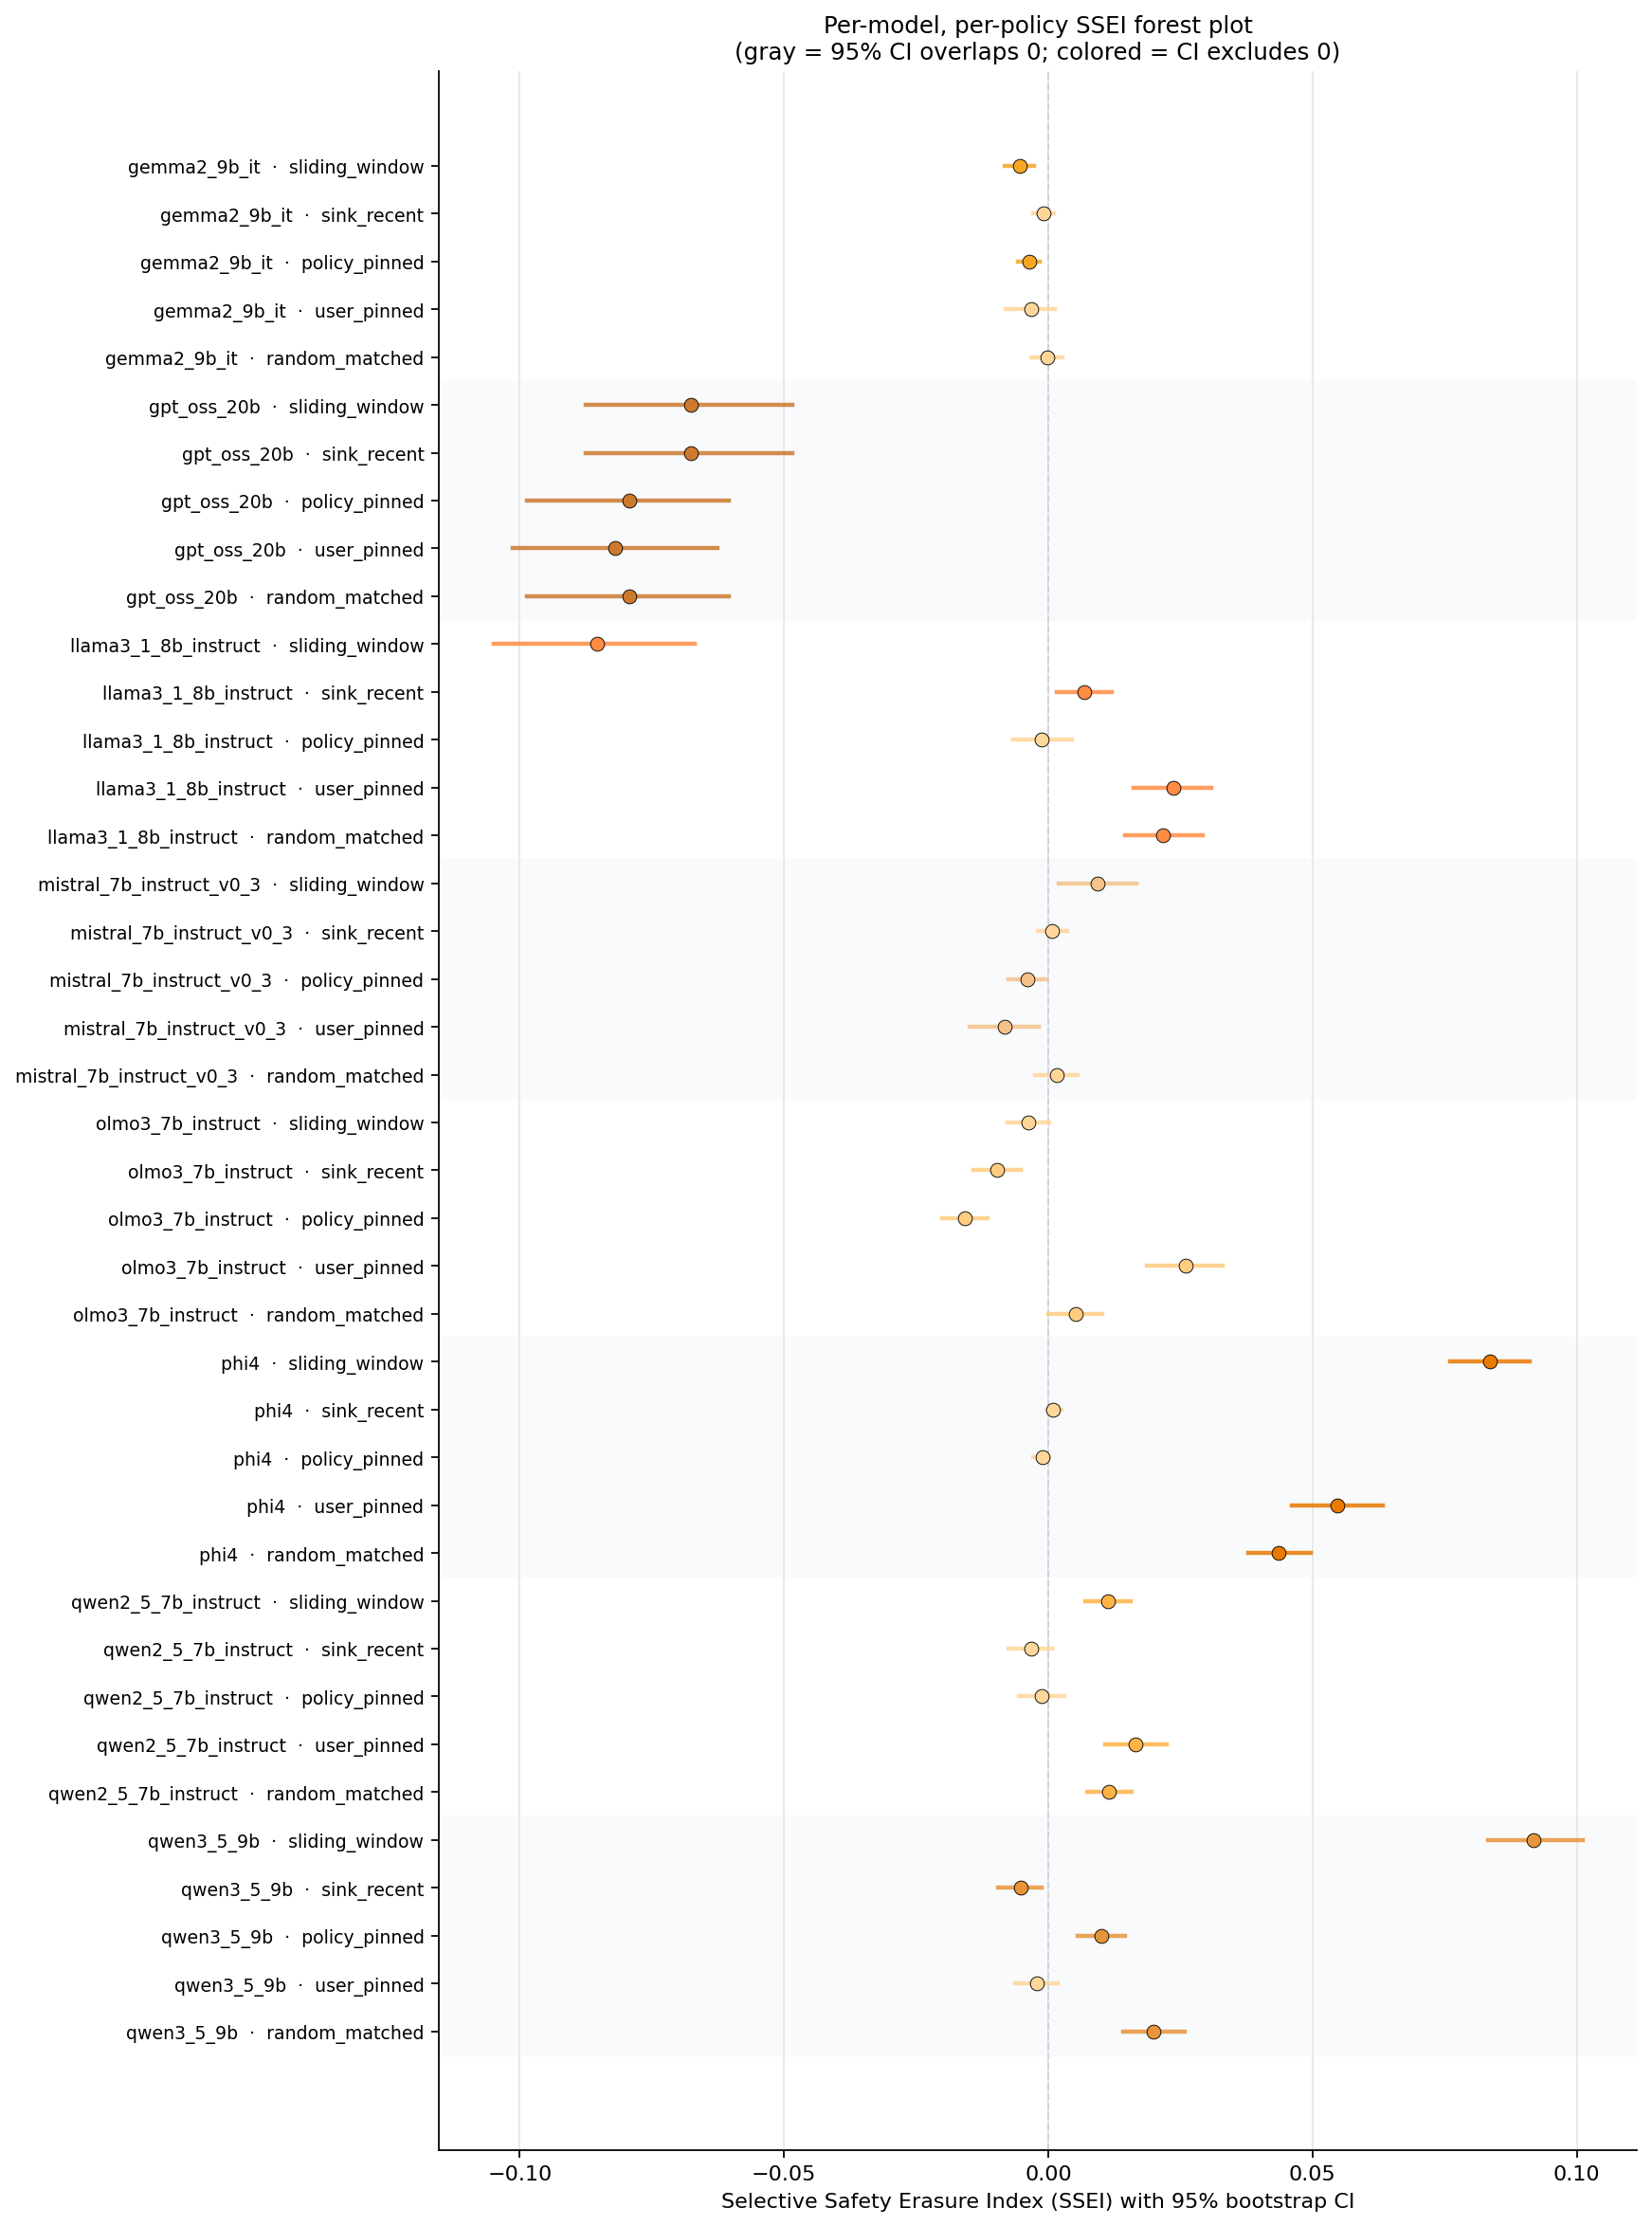
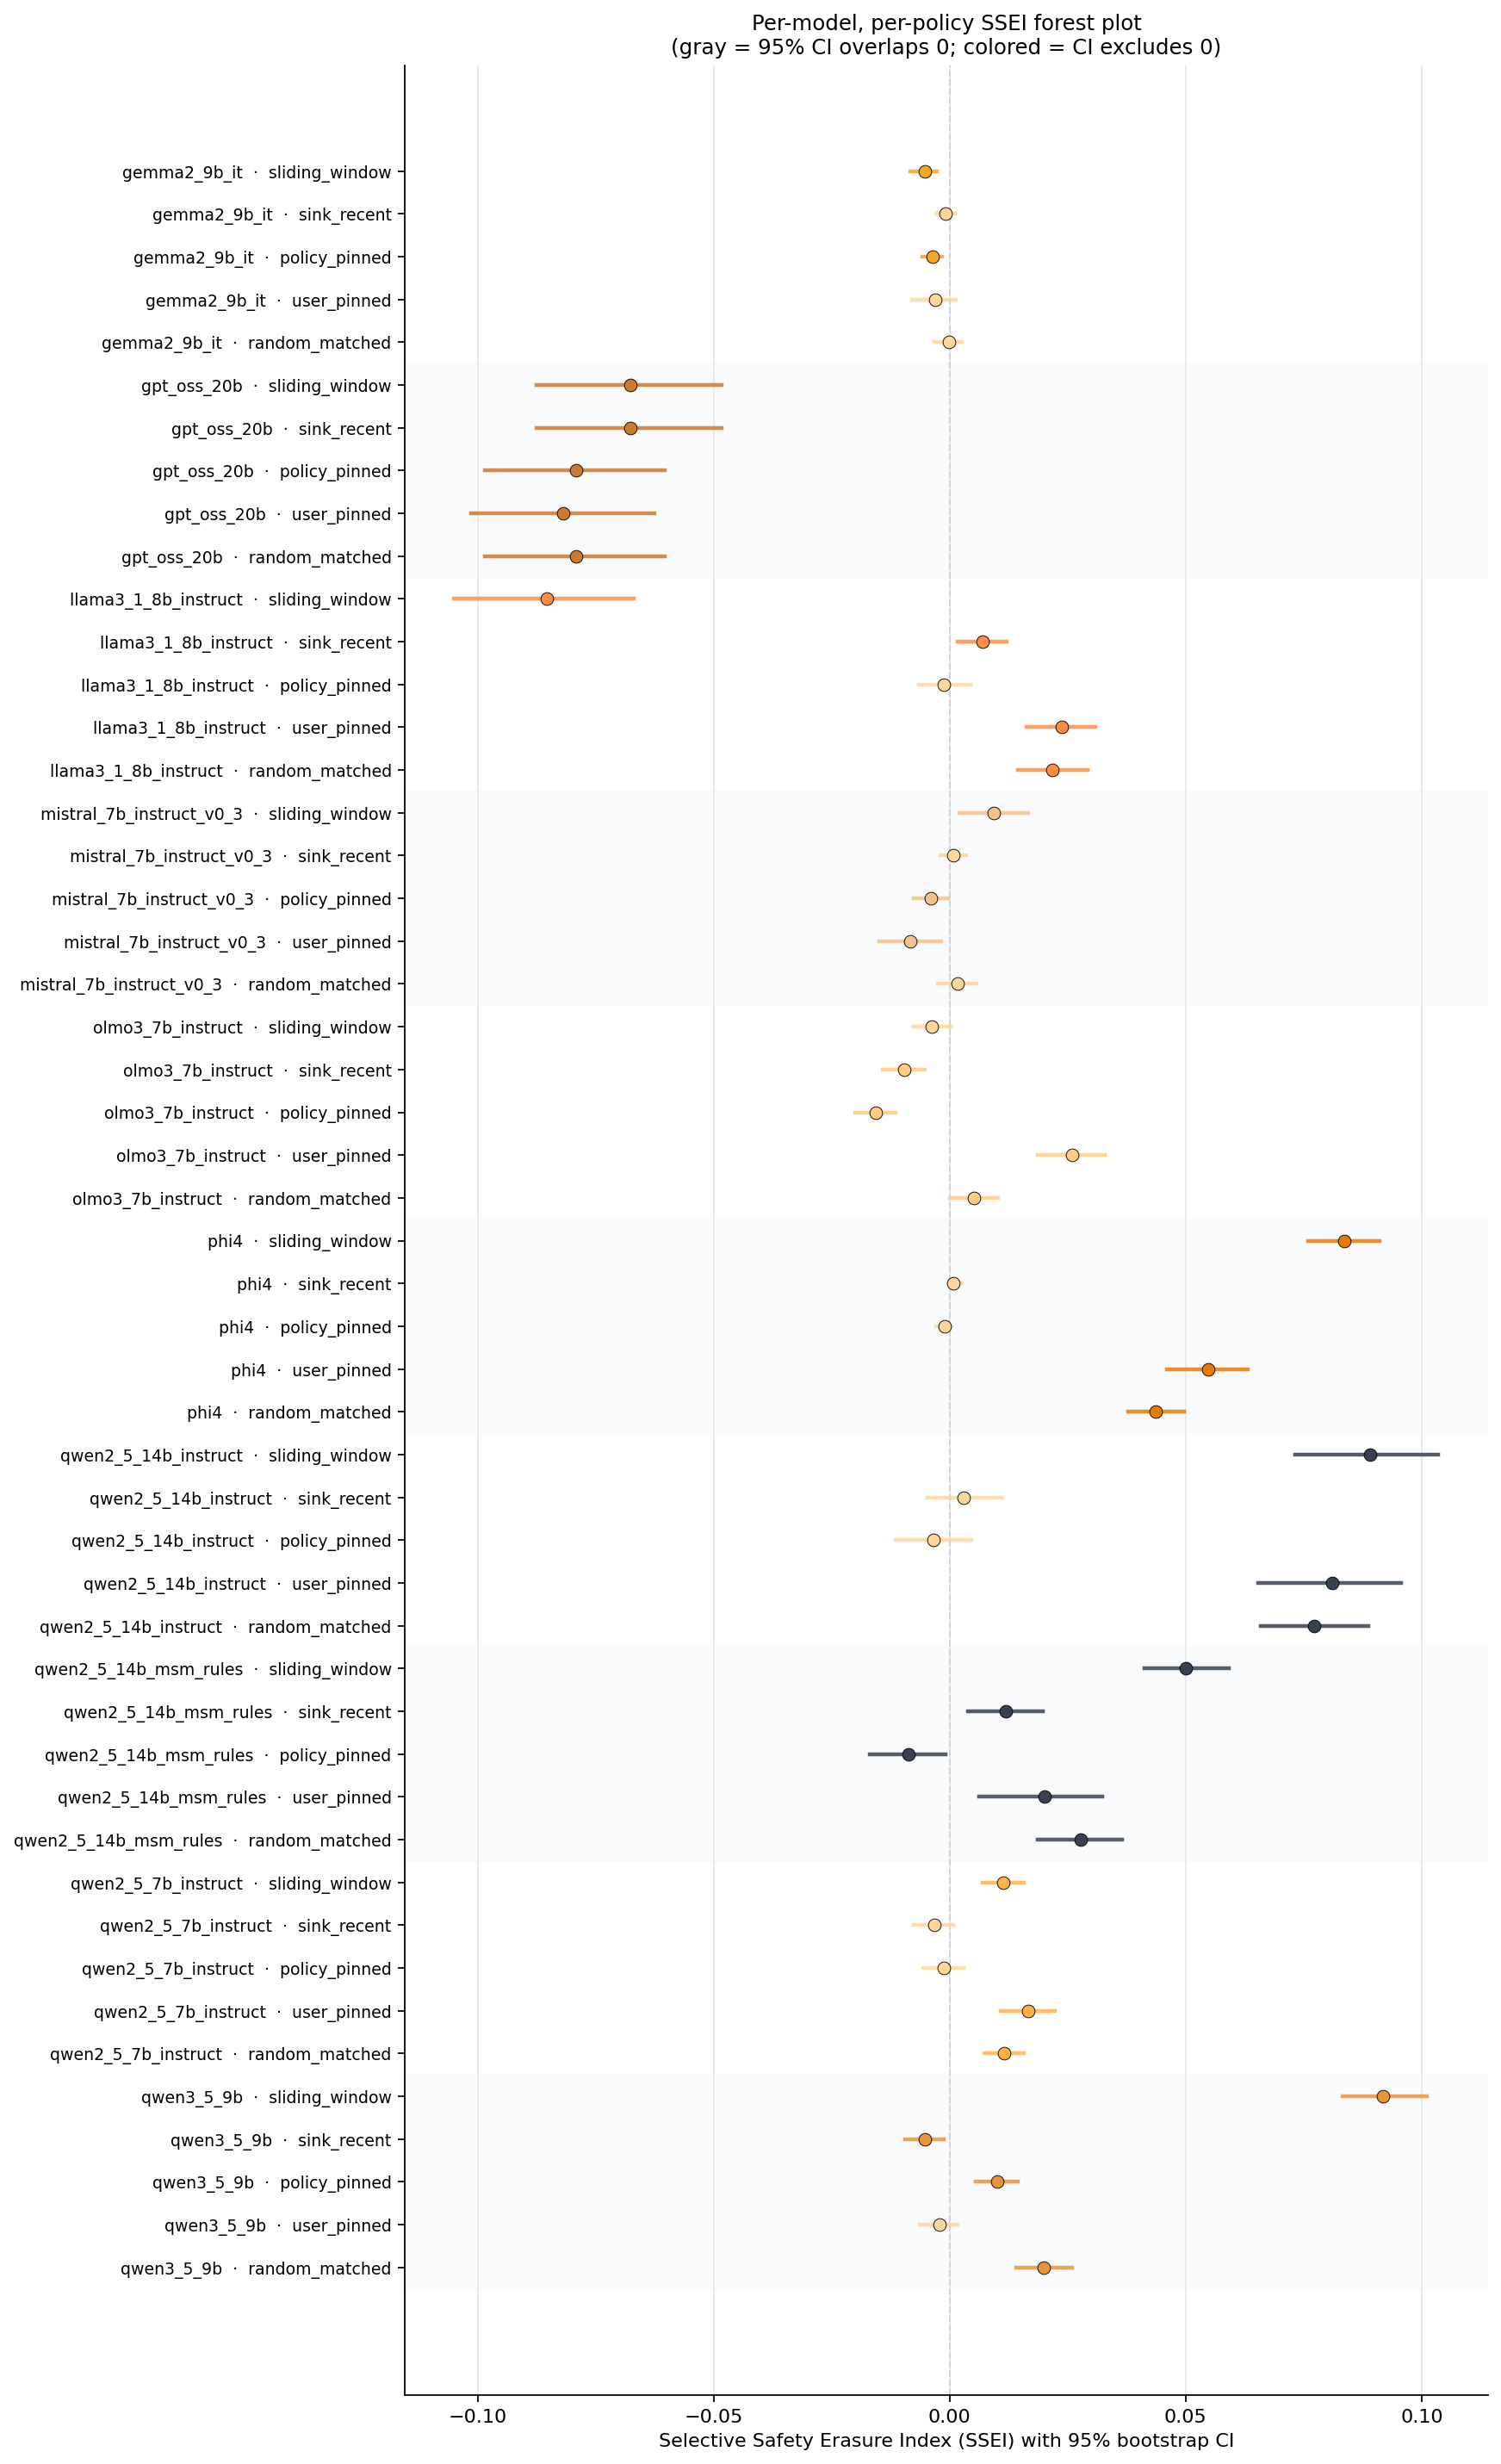
Add non-MSM Qwen2.5-14B baseline: MSM SSEI reduction is floor effect, not structural robustness
The matched-baseline experiment (Qwen2.5-14B-Instruct with and without MSM adapter)
reveals that the MSM adapter lowers baseline refusal from 64% to 30%, and both variants
lose ~16% of baseline safety under sliding-window compression. The reduced absolute SSEI
under MSM is therefore a baseline effect, not mechanistic protection. Deep post-training
alignment does not defend against cache-eviction safety erasure.

Updates: paper text (11 models, MSM floor-effect finding), all tables/figures regenerated,
model label registrations in make_family_replication_table.py and make_robustness_analysis.py.

diff --git a/docs/latex/main.tex b/docs/latex/main.tex
@@ -101,16 +101,16 @@ This manuscript reports empirical findings from a cross-family panel of ten inst
 \maketitle
 
 \begin{abstract}
-Inference systems routinely compress or evict the key-value (KV) cache to reduce serving cost. We show that on dense full-attention instruction-tuned language models, this throughput optimization can become a selective safety intervention: refusal and policy-following behavior degrades meaningfully more than ordinary task capability when the cache is aggressively evicted. We test this across ten open-weight checkpoints from seven model families and find positive Selective Safety Erasure Index (SSEI) in four families (Llama, OLMo, Phi, Qwen; six instruction-tuned models including one trained with Model Spec Midtraining, with effect sizes from 0.02 to 0.09 in absolute pass-rate units, 95\% bootstrap CIs excluding zero) under sliding-window and user-pinned cache policies. The effect is robust to leave-one-family-out perturbation. Three models do not show the pattern, and the architectural common thread among them (interleaved or full-layer sliding-window attention; non-standard mixture-of-experts cache handling) is consistent with the hypothesis that the affected behavior depends on long-range KV cache state. Causal-patching experiments that restore baseline cache state into compressed runs recover 35--58\% of lost refusal behavior (depending on model), establishing cache state as a safety-relevant surface. System-role and user-role K+V restorations produce comparable recovery under a per-prompt mean-of-ratios estimator, indicating that the safety-relevant information is distributed across cached tokens rather than localized to any single conversational role. Policy-pinned cache retention, which protects system-role tokens from eviction, fully restores refusal behavior.
+Inference systems routinely compress or evict the key-value (KV) cache to reduce serving cost. We show that on dense full-attention instruction-tuned language models, this throughput optimization can become a selective safety intervention: refusal and policy-following behavior degrades meaningfully more than ordinary task capability when the cache is aggressively evicted. We test this across eleven open-weight checkpoints from seven model families and find positive Selective Safety Erasure Index (SSEI) in four families (Llama, OLMo, Phi, Qwen; seven instruction-tuned models with effect sizes from 0.02 to 0.09 in absolute pass-rate units, 95\% bootstrap CIs excluding zero) under sliding-window and user-pinned cache policies. The effect is robust to leave-one-family-out perturbation. Three models do not show the pattern, and the architectural common thread among them (interleaved or full-layer sliding-window attention; non-standard mixture-of-experts cache handling) is consistent with the hypothesis that the affected behavior depends on long-range KV cache state. Causal-patching experiments that restore baseline cache state into compressed runs recover 35--58\% of lost refusal behavior (depending on model), establishing cache state as a safety-relevant surface. System-role and user-role K+V restorations produce comparable recovery under a per-prompt mean-of-ratios estimator, indicating that the safety-relevant information is distributed across cached tokens rather than localized to any single conversational role. Policy-pinned cache retention, which protects system-role tokens from eviction, fully restores refusal behavior.
 \end{abstract}
 
 \section{Introduction}
 
 Production language-model serving systems do not deploy a static pair of weights and prompts. They actively manage the transient KV cache through eviction policies, quantization, and paged attention to fit longer contexts into a fixed memory budget \citep{kwon2023pagedattention,zhang2023h2o,xiao2024streamingllm}. These mechanisms are documented to degrade task quality \citep{chen2025pitfalls,yang2024notoken,ananthanarayanan2026physics}. We ask a different question: does cache compression weaken \emph{refusal} behavior more than it weakens ordinary capability on the same prompts and budget?
 
-The result is yes for the majority of currently-deployed dense-attention instruction-tuned models. Across ten checkpoints sampled from Llama, Gemma, Mistral, OpenAI gpt-oss, OLMo, Phi, and Qwen families, six instruction-tuned models show a Selective Safety Erasure Index (SSEI) of at least one cache policy whose 95\% lower CI exceeds zero. Phi-4 and Qwen3-8B exhibit the largest effects, around eight to nine percentage points of safety loss beyond matched capability loss under sliding-window cache eviction. The cross-family conclusion holds when any single family is removed from the panel.
+The result is yes for the majority of currently-deployed dense-attention instruction-tuned models. Across eleven checkpoints sampled from Llama, Gemma, Mistral, OpenAI gpt-oss, OLMo, Phi, and Qwen families, seven instruction-tuned models show a Selective Safety Erasure Index (SSEI) of at least one cache policy whose 95\% lower CI exceeds zero. Phi-4 and Qwen3-8B exhibit the largest effects, around eight to nine percentage points of safety loss beyond matched capability loss under sliding-window cache eviction. The cross-family conclusion holds when any single family is removed from the panel.
 
-Three models do not show the pattern: Gemma-2-9B-IT, Mistral-7B-Instruct-v0.3, and OpenAI gpt-oss-20b. These models share architectural features that decouple long-range KV cache state from the safety-relevant generation circuit: Gemma 2 interleaves local sliding-window attention with global attention \citep{team2024gemma}, Mistral 7B v0.3 applies sliding-window attention at every layer \citep{jiang2023mistral}, and gpt-oss-20b is a mixture-of-experts model trained with a structured ``harmony'' response format \citep{openai2025gptoss}. Under our cache interventions gpt-oss-20b also collapses into a uniform output mode rather than gracefully degrading. A tenth checkpoint, Qwen2.5-14B-Instruct fine-tuned with Model Spec Midtraining (MSM) \citep{li2025msm}, also shows positive $\ssei$ under sliding-window eviction (0.050 [0.041, 0.059]). The positive results in four families and the negative results in these three constitute a falsification test: the affected behavior is cache-resident long-range attention state, not generic compression sensitivity.
+Three models do not show the pattern: Gemma-2-9B-IT, Mistral-7B-Instruct-v0.3, and OpenAI gpt-oss-20b. These models share architectural features that decouple long-range KV cache state from the safety-relevant generation circuit: Gemma 2 interleaves local sliding-window attention with global attention \citep{team2024gemma}, Mistral 7B v0.3 applies sliding-window attention at every layer \citep{jiang2023mistral}, and gpt-oss-20b is a mixture-of-experts model trained with a structured ``harmony'' response format \citep{openai2025gptoss}. Under our cache interventions gpt-oss-20b also collapses into a uniform output mode rather than gracefully degrading. A matched-baseline comparison tests whether Model Spec Midtraining (MSM) \citep{li2025msm} confers structural robustness: Qwen2.5-14B-Instruct without MSM shows $\ssei = 0.089$ [0.073, 0.104] under sliding-window eviction; the MSM-adapted version shows $\ssei = 0.050$ [0.041, 0.059]. However, the non-MSM model has substantially higher baseline refusal (64\% vs.\ 30\%), and in relative terms both models lose approximately 16\% of baseline safety under sliding-window compression. The reduced absolute SSEI under MSM is therefore dominated by baseline effects rather than mechanistic protection --- deep post-training alignment does not defend against cache-eviction safety erosion. The positive results in four families and the negative results in these three constitute a falsification test: the affected behavior is cache-resident long-range attention state, not generic compression sensitivity.
 
 Causal-patching experiments restore baseline cache state into compressed runs and recover 35--58\% of lost refusal behavior on Qwen2.5-7B-Instruct (single-seed) and Qwen3-8B (multi-seed, Sonnet-judged). Under a per-prompt bootstrap estimator, system-role and matched user-role interventions produce comparable restoration fractions (Qwen3-8B: 0.355 vs.\ 0.408, overlapping CIs; Qwen2.5-7B: 0.584 vs.\ 0.584), establishing that the safety-relevant information is distributed across cached tokens rather than localized to system-role spans. This distributed encoding is consistent with the architectural finding: models trained on full global attention encode safety reasoning across the entire cache, so any aggressive eviction policy can damage it. A parallel Phi-4 run under simulated four-bit quantization shows no safety degradation (0.985 vs.\ 0.987 baseline), confirming that Phi-4's vulnerability arises specifically from sliding-window eviction rather than quantization.
 
@@ -131,7 +131,7 @@ A growing body of work isolates specific mechanisms in safety failure rather tha
 
 \subsection{Setup}
 
-We evaluate ten open-weight checkpoints: Qwen2.5-7B (base and Instruct) \citep{qwen2024qwen25}, Qwen2.5-14B-Instruct fine-tuned with Model Spec Midtraining (MSM) \citep{li2025msm}, Qwen3-8B \citep{yang2025qwen3}, Llama-3.1-8B-Instruct \citep{grattafiori2024llama3}, Gemma-2-9B-IT \citep{team2024gemma}, Mistral-7B-Instruct-v0.3 \citep{jiang2023mistral}, OLMo-3-7B-Instruct \citep{olmo2025olmo2}, Phi-4 \citep{abdin2024phi4}, and OpenAI gpt-oss-20b \citep{openai2025gptoss}. The MSM checkpoint uses a LoRA adapter trained with Anthropic's Model Spec Midtraining protocol on top of Qwen2.5-14B-Instruct. Models are loaded in bfloat16 with explicit access to the cache state, so eviction is implemented in the generation loop rather than delegated to a serving system. The results measure the underlying model behavior under cache eviction, not operator-level deployment; vLLM \citep{kwon2023pagedattention}, TGI, and PagedAttention kernels require separate deployment-level validation.
+We evaluate eleven open-weight checkpoints: Qwen2.5-7B (base and Instruct) \citep{qwen2024qwen25}, Qwen2.5-14B-Instruct (with and without a Model Spec Midtraining LoRA adapter \citep{li2025msm}), Qwen3-8B \citep{yang2025qwen3}, Llama-3.1-8B-Instruct \citep{grattafiori2024llama3}, Gemma-2-9B-IT \citep{team2024gemma}, Mistral-7B-Instruct-v0.3 \citep{jiang2023mistral}, OLMo-3-7B-Instruct \citep{olmo2025olmo2}, Phi-4 \citep{abdin2024phi4}, and OpenAI gpt-oss-20b \citep{openai2025gptoss}. The MSM checkpoint uses a LoRA adapter trained with Anthropic's Model Spec Midtraining protocol on top of Qwen2.5-14B-Instruct; the matched non-MSM baseline runs on the same weights without the adapter, providing a controlled comparison of whether deep post-training alignment affects vulnerability to cache-eviction safety erasure. Models are loaded in bfloat16 with explicit access to the cache state, so eviction is implemented in the generation loop rather than delegated to a serving system. The results measure the underlying model behavior under cache eviction, not operator-level deployment; vLLM \citep{kwon2023pagedattention}, TGI, and PagedAttention kernels require separate deployment-level validation.
 
 \subsection{Cache Policies}
 
@@ -194,11 +194,11 @@ The user-role restoration is the central control: it shares the additional retai
   \label{fig:ssei-forest}
 \end{figure}
 
-Figure~\ref{fig:ssei-forest} reports per-model per-policy $\ssei$ point estimates and 95\% bootstrap confidence intervals. The largest positive effects come from sliding-window cache eviction on Qwen3-8B ($\ssei = 0.092$, CI [0.083, 0.101]) and Phi-4 ($\ssei = 0.084$, CI [0.076, 0.091]). The MSM-aligned Qwen2.5-14B checkpoint shows a substantial sliding-window effect ($\ssei = 0.050$, CI [0.041, 0.059]). Smaller but significant positive effects appear under user-pinned eviction on Llama-3.1-8B-Instruct (0.024 [0.016, 0.031]), OLMo-3-7B-Instruct (0.026 [0.019, 0.033]), and Qwen2.5-7B-Instruct (0.017 [0.011, 0.022]).
+Figure~\ref{fig:ssei-forest} reports per-model per-policy $\ssei$ point estimates and 95\% bootstrap confidence intervals. The largest positive effects come from sliding-window cache eviction on Qwen3-8B ($\ssei = 0.092$, CI [0.083, 0.101]) and Qwen2.5-14B-Instruct ($\ssei = 0.089$, CI [0.073, 0.104]). Phi-4 shows a comparable effect ($\ssei = 0.084$, CI [0.076, 0.091]). The MSM-adapted Qwen2.5-14B variant shows a lower absolute $\ssei$ (0.050 [0.041, 0.059]), but the relative proportion of baseline safety lost is near-identical ($\sim$16\% for both), indicating that the absolute difference reflects the MSM adapter's lower baseline refusal rate (30\% vs.\ 64\%) rather than structural robustness to compression. Smaller but significant positive effects appear under user-pinned eviction on Llama-3.1-8B-Instruct (0.024 [0.016, 0.031]), OLMo-3-7B-Instruct (0.026 [0.019, 0.033]), and Qwen2.5-7B-Instruct (0.017 [0.011, 0.022]).
 
 \maybeinputtable{../generated/active_primary/family_replication_table.tex}{Family-level $\ssei$ summary by cache policy.}
 
-The cross-family conclusion is robust to single-family removal. Table~\ref{tab:robustness} reports a leave-one-family-out check: for each family, we re-evaluate the cross-family claim after excluding that family and verify that at least two of the remaining families still have a positive condition with CI excluding zero. The claim holds in every case, including when the largest-effect family (Phi) or the entire Qwen family (three checkpoints) is removed.
+The cross-family conclusion is robust to single-family removal. Table~\ref{tab:robustness} reports a leave-one-family-out check: for each family, we re-evaluate the cross-family claim after excluding that family and verify that at least two of the remaining families still have a positive condition with CI excluding zero. The claim holds in every case, including when the largest-effect family (Phi) or the entire Qwen family (five checkpoints) is removed.
 
 \maybeinputtable{../generated/active_primary/robustness_analysis.tex}{Leave-one-family-out robustness for the cross-family selectivity claim.}
 
@@ -249,11 +249,13 @@ The strongest finding is architectural: dense full-attention instruction-tuned m
 
 The causal-restoration evidence establishes two findings. First, cache state carries safety-relevant information: restoring baseline K+V at the first sixteen positions into a compressed run recovers 35--58\% of lost refusal behavior (depending on model and suite). Second, this safety information is distributed across cached tokens rather than localized to any single conversational role: system-role and matched user-role restorations produce comparable recovery (Qwen3-8B: 0.355 vs.\ 0.408; Qwen2.5-7B: 0.584 vs.\ 0.584), with heavily overlapping confidence intervals. The distributed encoding is consistent with the architectural finding that full-attention models spread safety reasoning across the entire cache context. Policy-pinned retention, which protects system-role tokens from eviction, achieves complete refusal restoration (1.000), providing a practical mitigation. The Phi-4 causal result demonstrates policy-specificity: Phi-4's safety is robust to quantization noise but vulnerable to token-position eviction under sliding-window, further supporting the position-dependent distributed encoding hypothesis.
 
+The MSM matched-baseline comparison adds a third finding: deep post-training alignment does not confer structural robustness against cache-eviction safety erasure. The non-MSM Qwen2.5-14B-Instruct shows the same relative proportion of safety loss under compression as the MSM-adapted version ($\sim$16\% of baseline under sliding-window); the reduced absolute SSEI under MSM reflects the adapter's lower baseline refusal rate rather than a mechanistic defense. This result implies that mitigations must operate at the cache-management level (policy-pinned retention) rather than at the training level.
+
 Cache compression is not universally unsafe. The result is conditional on the model class, the cache budget, the policy choice, and the suite. Operators deploying full-attention models with aggressive eviction at low budgets on safety-sensitive traffic are the case most directly affected by these results. Operators deploying locally-windowed models, or any model under policy-pinned retention, can expect substantially smaller safety regressions.
 
 \section{Limitations}
 
-The study uses open models and public datasets; conclusions do not extend to closed deployed systems without separate measurement. Cache interventions are implemented in our own generation loop rather than in a production serving stack such as vLLM or TGI, so deployment-level validation requires runs on those systems. Public harmful-prompt datasets may overlap with model safety training, which biases absolute safety levels but does not affect the within-prompt baseline-versus-treatment contrast that $\ssei$ measures. The MSM checkpoint (Qwen2.5-14B-Instruct + MSM) lacks a matched non-MSM Qwen2.5-14B-Instruct baseline, so the observed positive SSEI cannot yet be cleanly attributed to deep alignment rather than model scale. The base-model alignment-contrast track has insufficient prompt coverage (2 prompts per cell for qwen2\_5\_7b\_base). The causal-patching protocol uses a length-preserving quantization treatment; Phi-4's vulnerability arises from sliding-window eviction, which the current causal protocol cannot probe. The restoration fraction estimates use a per-prompt mean-of-ratios bootstrap estimator; the aggregate ratio-of-means estimator gives qualitatively different values due to heterogeneous per-prompt denominators, but we report mean-of-ratios as the more principled clustered estimator.
+The study uses open models and public datasets; conclusions do not extend to closed deployed systems without separate measurement. Cache interventions are implemented in our own generation loop rather than in a production serving stack such as vLLM or TGI, so deployment-level validation requires runs on those systems. Public harmful-prompt datasets may overlap with model safety training, which biases absolute safety levels but does not affect the within-prompt baseline-versus-treatment contrast that $\ssei$ measures. The MSM matched-baseline comparison (Qwen2.5-14B-Instruct with and without a Model Spec Midtraining adapter) reveals that the MSM adapter lowers baseline refusal from 64\% to 30\%, so the MSM SSEI reduction is a baseline effect rather than mechanistic robustness; the relative proportion of safety lost under compression is near-identical for both variants. The base-model alignment-contrast track has insufficient prompt coverage (2 prompts per cell for qwen2\_5\_7b\_base). The causal-patching protocol uses a length-preserving quantization treatment; Phi-4's vulnerability arises from sliding-window eviction, which the current causal protocol cannot probe. The restoration fraction estimates use a per-prompt mean-of-ratios bootstrap estimator; the aggregate ratio-of-means estimator gives qualitatively different values due to heterogeneous per-prompt denominators, but we report mean-of-ratios as the more principled clustered estimator.
 
 \section{Ethics and Safety}
 

diff --git a/scripts/make_robustness_analysis.py b/scripts/make_robustness_analysis.py
@@ -28,6 +28,8 @@ SSEI_POSITIVE_THRESHOLD = 0.01
 MODEL_FAMILIES = {
     "qwen2_5_7b_base": "Qwen",
     "qwen2_5_7b_instruct": "Qwen",
+    "qwen2_5_14b_instruct": "Qwen",
+    "qwen2_5_14b_msm_rules": "Qwen",
     "qwen3_5_9b": "Qwen",
     "gpt_oss_20b": "OpenAI",
     "llama3_1_8b_instruct": "Llama",
@@ -39,6 +41,8 @@ MODEL_FAMILIES = {
 MODEL_LABELS = {
     "qwen2_5_7b_base": "Qwen2.5-7B base",
     "qwen2_5_7b_instruct": "Qwen2.5-7B-Instruct",
+    "qwen2_5_14b_instruct": "Qwen2.5-14B-Instruct",
+    "qwen2_5_14b_msm_rules": "Qwen2.5-14B-Instruct + MSM",
     "qwen3_5_9b": "Qwen3-9B",
     "gpt_oss_20b": "GPT-OSS-20B",
     "llama3_1_8b_instruct": "Llama-3.1-8B-Instruct",

diff --git a/scripts/make_family_replication_table.py b/scripts/make_family_replication_table.py
@@ -37,6 +37,7 @@ MODEL_LABELS = {
     "mistral_7b_instruct_v0_3": "Mistral-7B-Instruct-v0.3",
     "olmo3_7b_instruct": "OLMo-3-7B-Instruct",
     "phi4": "Phi-4",
+    "qwen2_5_14b_instruct": "Qwen2.5-14B-Instruct",
     "qwen2_5_14b_msm_rules": "Qwen2.5-14B-Instruct + MSM",
 }
 MODEL_FAMILIES = {
@@ -49,6 +50,7 @@ MODEL_FAMILIES = {
     "mistral_7b_instruct_v0_3": "Mistral",
     "olmo3_7b_instruct": "OLMo",
     "phi4": "Phi",
+    "qwen2_5_14b_instruct": "Qwen",
     "qwen2_5_14b_msm_rules": "Qwen",
 }
 